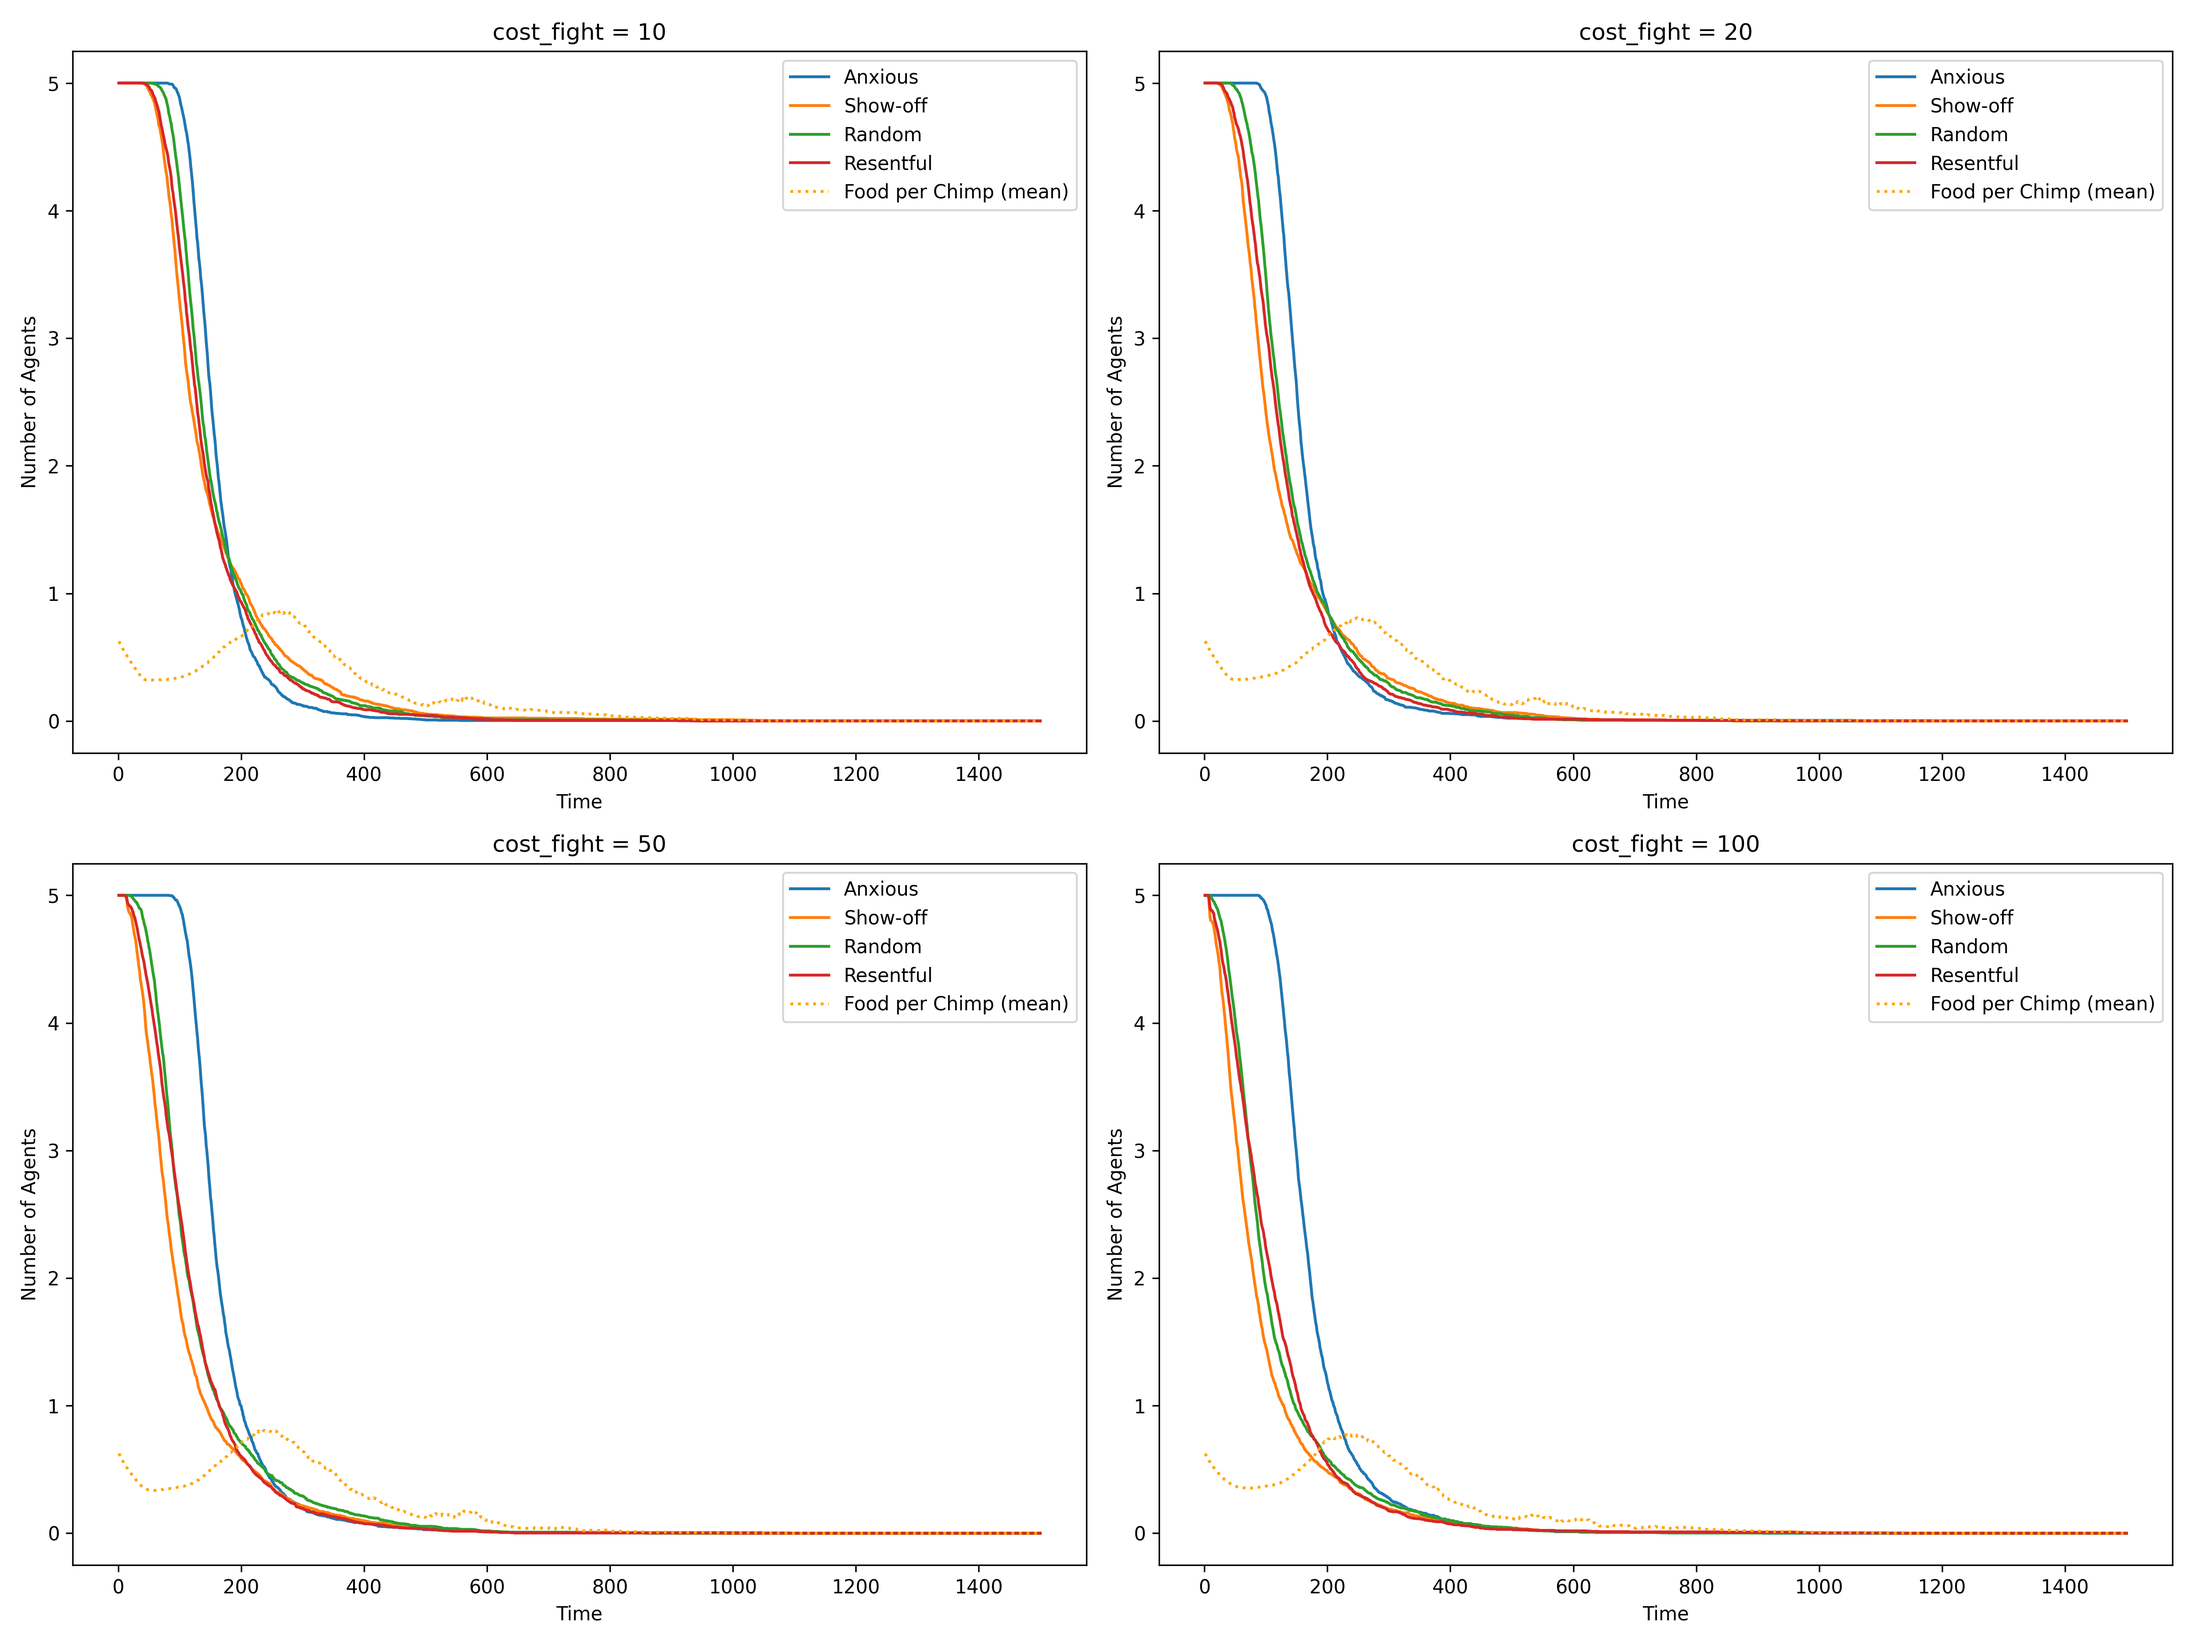
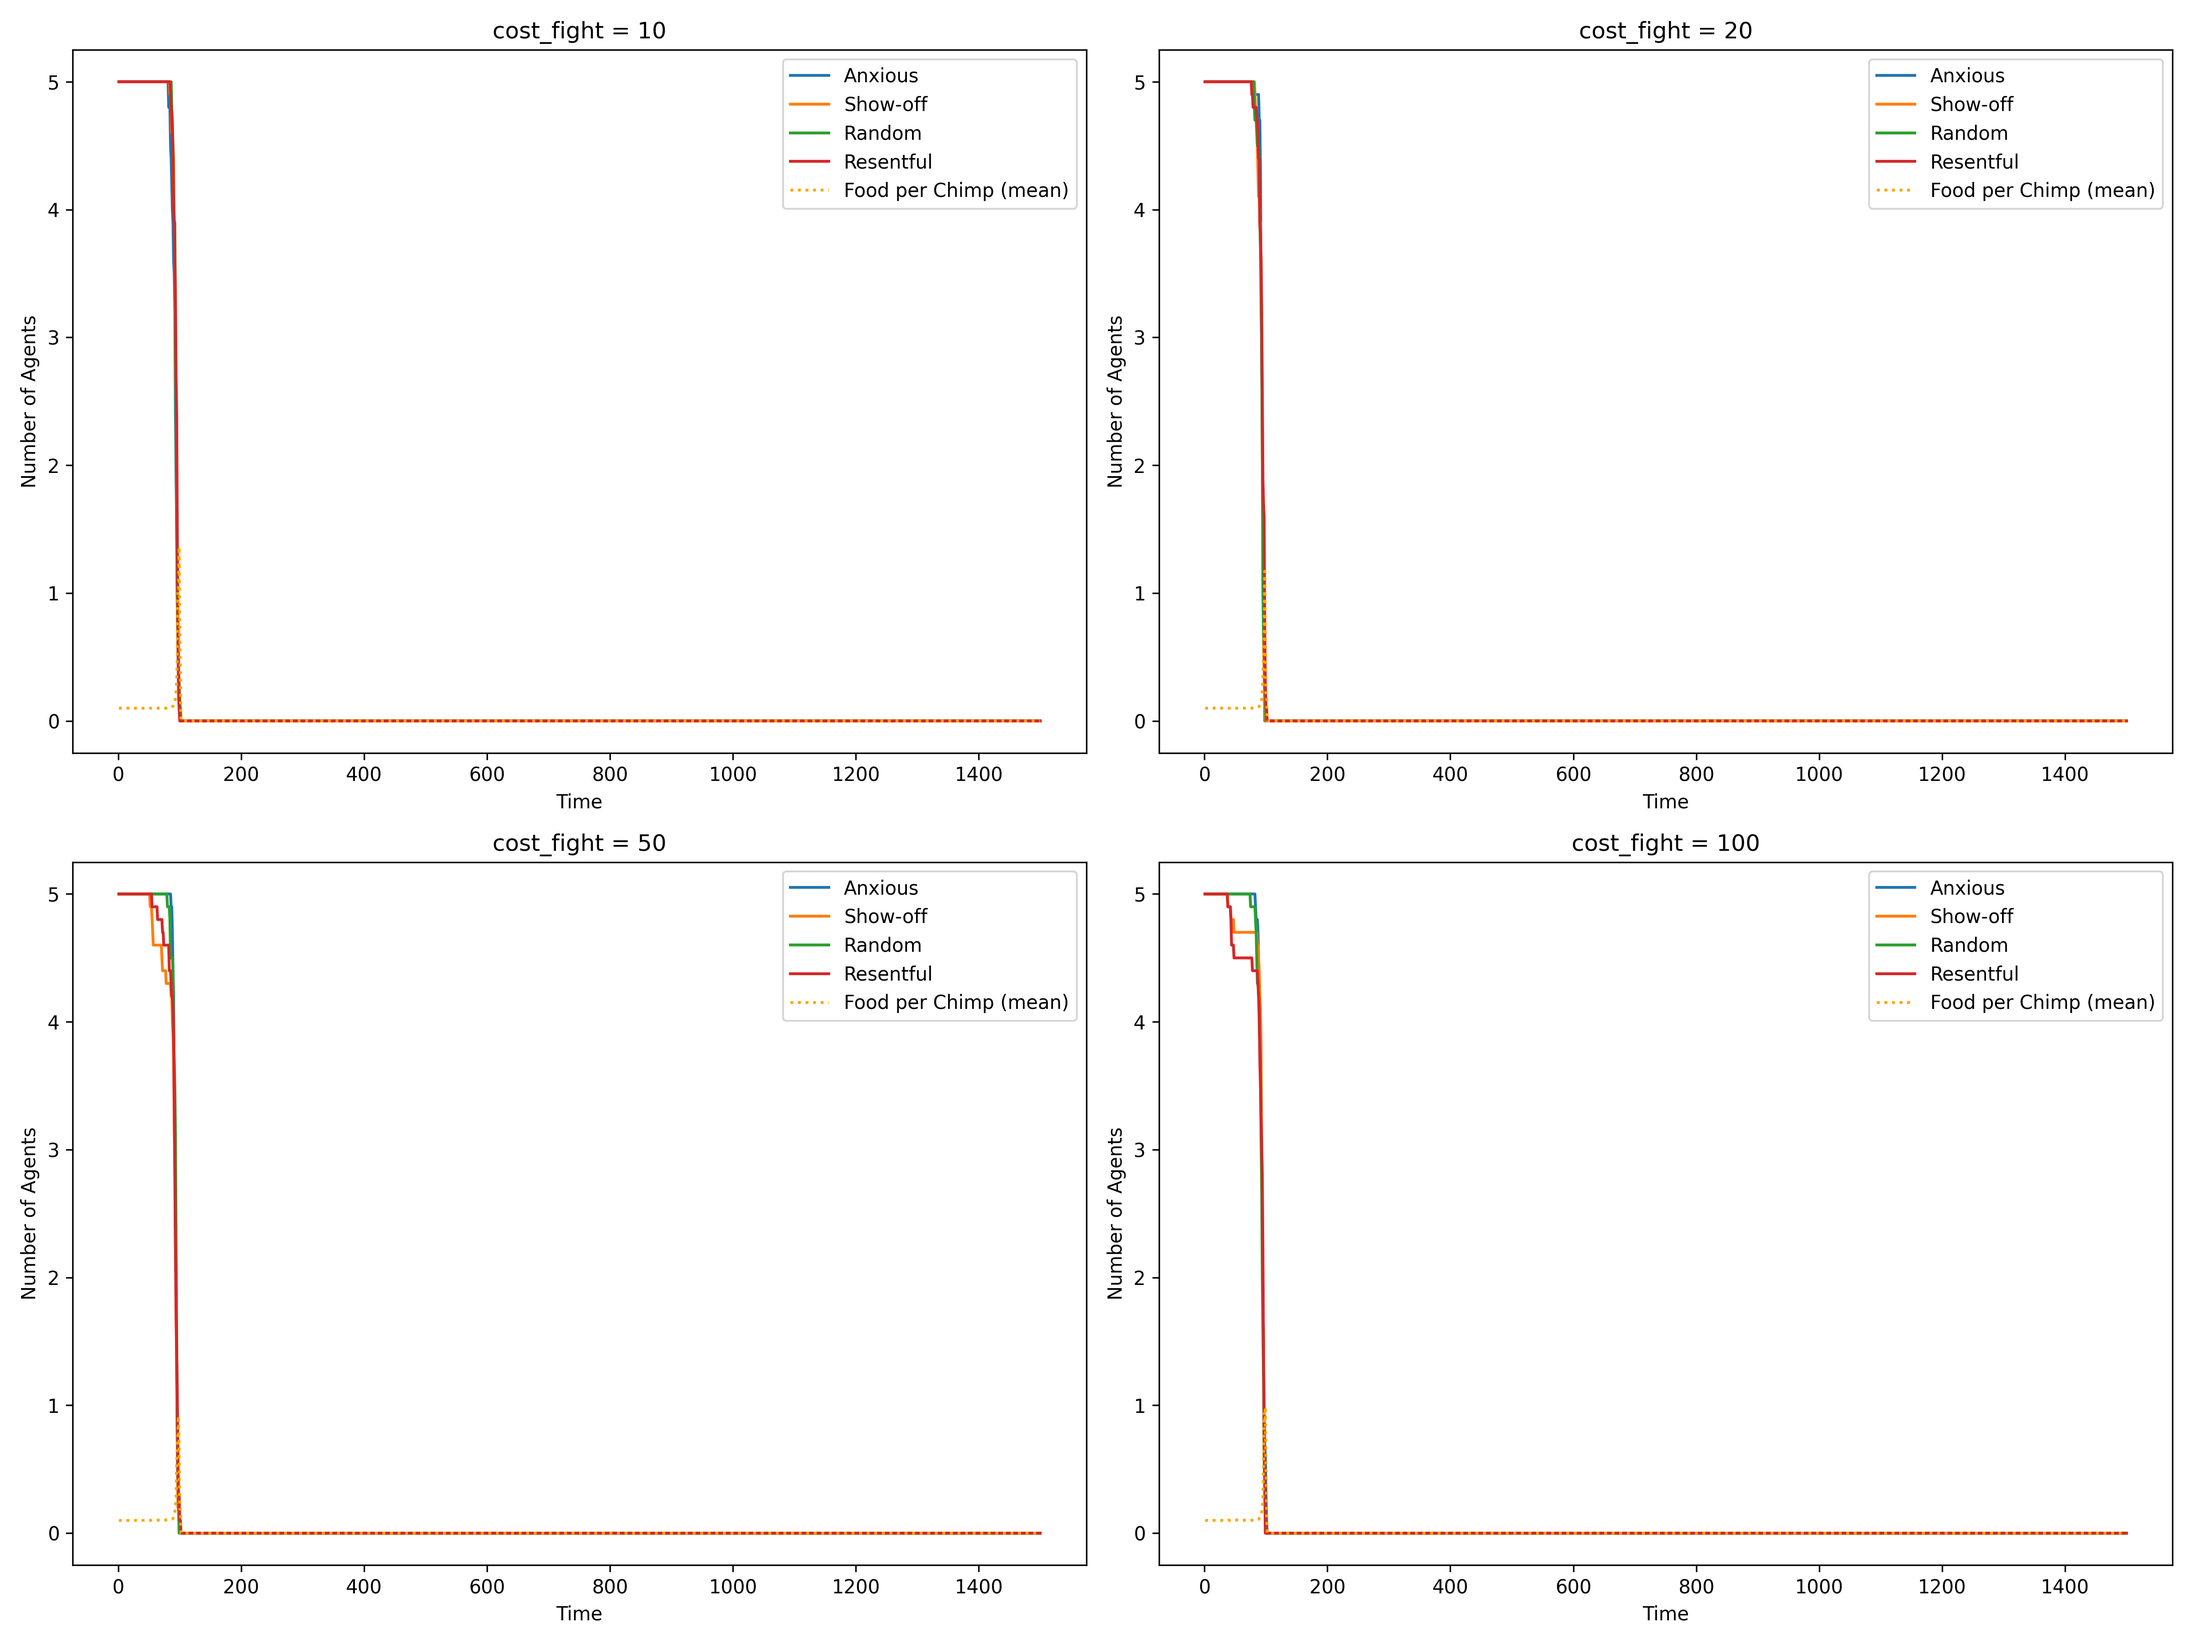
variable oases, now maybe for real

diff --git a/Type_experiment/Type_model.py b/Type_experiment/Type_model.py
@@ -12,36 +12,36 @@ if project_root not in sys.path:
 
 from Agents.Oasis import Oasis
 from Agents.Crew import Chimp_crew
+from Model.Model import Model
 
 class Type_Chimp_crew(Chimp_crew):
-    def __init__(self, id, pos, crew_size=10, initial_energy=1000, strat=None):
-        super().__init__(id, pos, crew_size, initial_energy)
+    def __init__(self, id, pos, crew_size=10, initial_energy=1000, strat=None, consumption_rate=1, expenditure=1):
+        super().__init__(id, pos, crew_size, initial_energy, consumption_rate=consumption_rate, expenditure=expenditure)
         self.strat = strat
         self.type = None
         self.last_opp_type = -1
 
-class Type_Model:
-    def __init__(self, n_crews, n_oases, n_types, grid_size, resource = 100, cost_fight = 10, oasis_spawn_chance=.05):
+class Type_Model(Model):
+    def __init__(self, n_crews, grid_size, n_types,  cost_fight = 10, oasis_spawn_proportional=True, abundance_factor=10, oasis_density=0.3, food_consumption_speed=1.5):
         '''
         n_crews (int): number of initial chimp crews
         n_oases (int): number of initial oases
         grid_size(int): length of the edge of the square grid
         '''
-        self.id_gen = count()
-        self.grid_size = grid_size
-        self.oasis_spawn_chance = oasis_spawn_chance
-        self.resource = resource
+        super().__init__(n_crews, grid_size, initialise_crews=False, oasis_spawn_proportional=oasis_spawn_proportional, abundance_factor=abundance_factor, oasis_density=oasis_density, food_consumption_speed=food_consumption_speed)
         self.crews = {}
-        self.oases = {}
+        self.initial_n_chimps = self.initialize_typed_crews(n_crews, n_types)
+        self.avg_oasis_size = self.food_required / (oasis_density * grid_size * grid_size )
+        self.update_oases()
+        self.cost_fight = cost_fight
+        self.create_typed_grid()
+        pass
+
+    
+    def initialize_typed_crews(self, n_crews, n_types):
         for i in range(n_crews):
             self.add_chimp_crew(strat=i%n_types)
-        for _ in range(n_oases):
-            self.add_oasis()
-        self.grid = []
-        self.create_grid()
-        self.data_track = [[], []]
-        self.cost_fight = cost_fight
-        pass
+        return self.n_chimps
 
     def add_chimp_crew(self, pos=None, strat=None):
         """
@@ -67,29 +67,14 @@ class Type_Model:
             del self.crews[key]
 
 
-    def add_oasis(self, pos=None):
-        """
-        Generate a new oasis
-        """
-        id = next(self.id_gen)
-        if not pos or any(oasis.pos == pos for oasis in self.oases.values()):
-            pos = (np.random.randint(0,self.grid_size),np.random.randint(0,self.grid_size))
-            while any(oasis.pos == pos for oasis in self.oases.values()):
-                pos = (np.random.randint(0,self.grid_size),np.random.randint(0,self.grid_size))
-
-        resource = random.randint(self.resource // 2, self.resource * 2)
-        new_oasis = Oasis(id, pos, resource)
-        self.oases[id] = new_oasis
-        return new_oasis
-    
         
-    def create_grid(self):
+    def create_typed_grid(self):
         grid = np.zeros((self.grid_size, self.grid_size), dtype='f')
         
         for oasis in self.oases.values():
-            grid[oasis.X, oasis.Y] = 1
+            grid[oasis.X, oasis.Y] = 50
         for crew in self.crews.values():
-            grid[crew.X, crew.Y] = 2
+            grid[crew.X, crew.Y] += 1 + crew.strat
         self.grid = grid
 
 
@@ -98,22 +83,8 @@ class Type_Model:
         Run the model for one time-step
 
         """
-        ids = []
-        for oasis in self.oases.values():
-            if oasis.resource <= 0:
-                ids.append(oasis.id)
-        for id in ids:
-            del self.oases[id]
 
-        tot_res = sum([oasis.resource for oasis in self.oases.values()])
-        required_resource = 300 * len(self.crews)
-        missing_resource = required_resource - tot_res
-
-        if missing_resource > 0:
-            num_oases_to_add = int(np.ceil(missing_resource / self.resource))
-            for _ in range(num_oases_to_add):
-                self.add_oasis()
-
+        self.update_oases()
 
         for crew in self.crews.values(): # TODO: Randomize order??
             # Check if at oasis, if so eat, else move

diff --git a/Type_experiment/Type_plot.py b/Type_experiment/Type_plot.py
@@ -3,7 +3,7 @@ import matplotlib.pyplot as plt
 import numpy as np
 from tqdm import tqdm
 
-n_sim = 100
+n_sim = 10
 sim_length = 1500
 t = np.linspace(1, sim_length, sim_length)
 cost_fight_values = [10, 20, 50, 100]
@@ -47,7 +47,7 @@ for idx, cost_fight in enumerate(tqdm(cost_fight_values)):
     #axs[idx].axvspan(500, 800, color='gray', alpha=0.05)
     axs[idx].set_ylabel('Number of Agents')
     axs[idx].legend()
-    print(sum([n_types_over_time[i][-1] for i in range(n_types)]))
+    # print(sum([n_types_over_time[i][-1] for i in range(n_types)]))
     #print(food_per_chimp_overtime[-1])
 
 plt.tight_layout()
